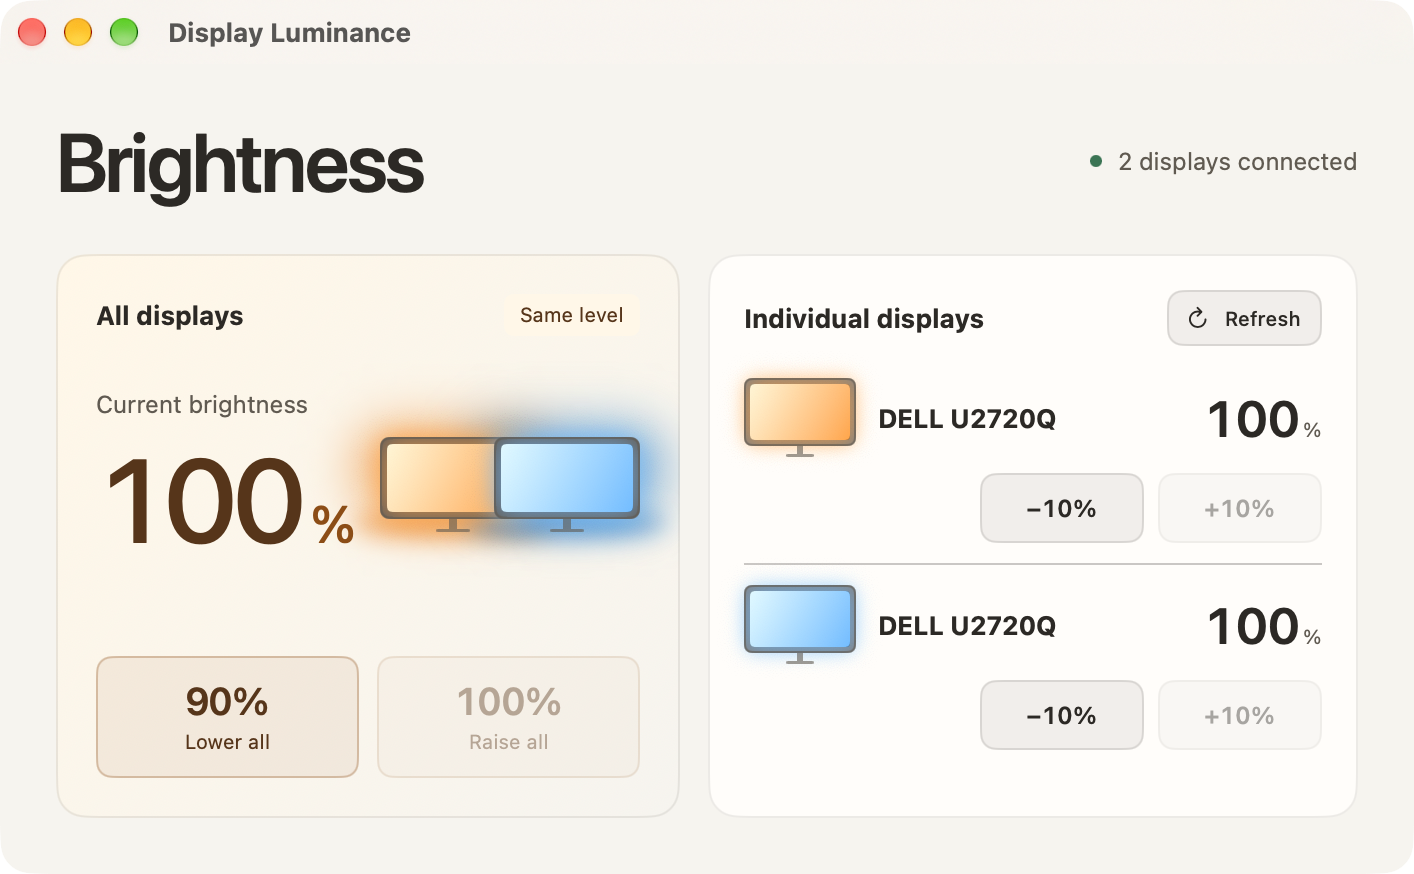
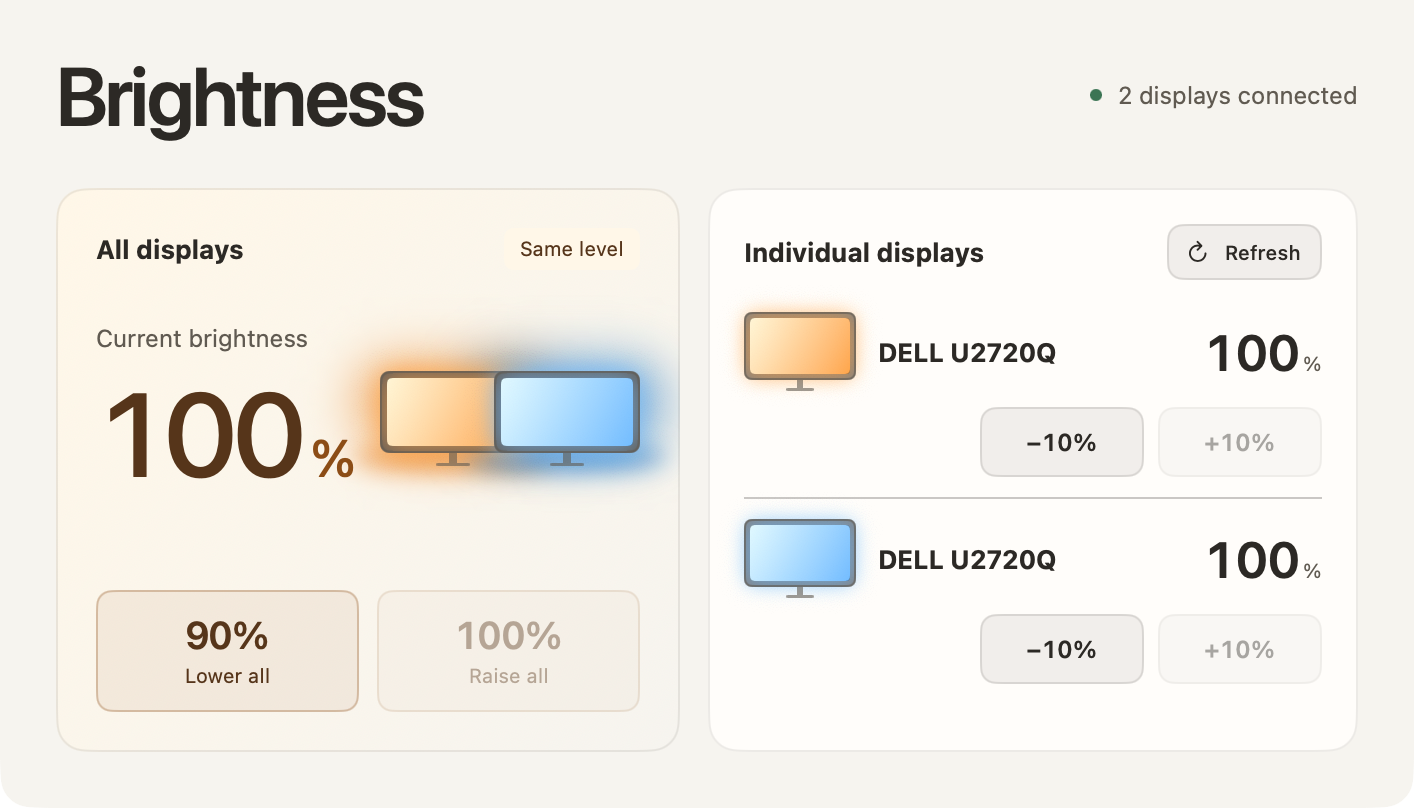
Show both appearance modes in the README

diff --git a/README.md b/README.md
@@ -2,7 +2,9 @@
 
 Display Luminance is a native macOS app for adjusting the hardware brightness of external monitors. Set every connected monitor to one brightness level or adjust them individually.
 
-![Display Luminance with overlapping orange and blue monitors in the All displays card](docs/screenshots/display-luminance.png)
+| Light mode | Dark mode |
+| --- | --- |
+| ![Display Luminance in Light mode with overlapping orange and blue monitors](docs/screenshots/display-luminance.png) | ![Display Luminance in Dark mode with overlapping orange and blue monitors](docs/screenshots/display-luminance-dark.png) |
 
 ## Releases
 
